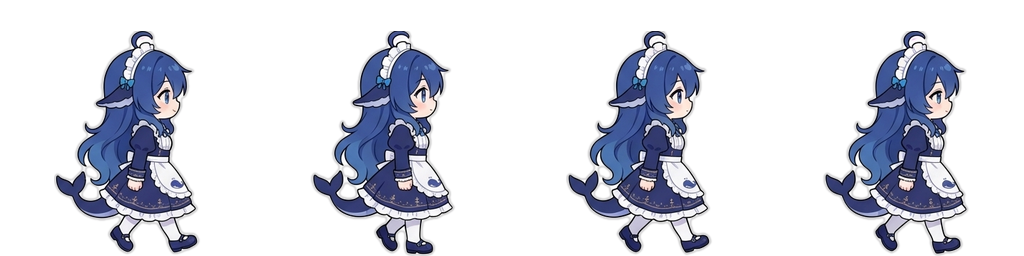
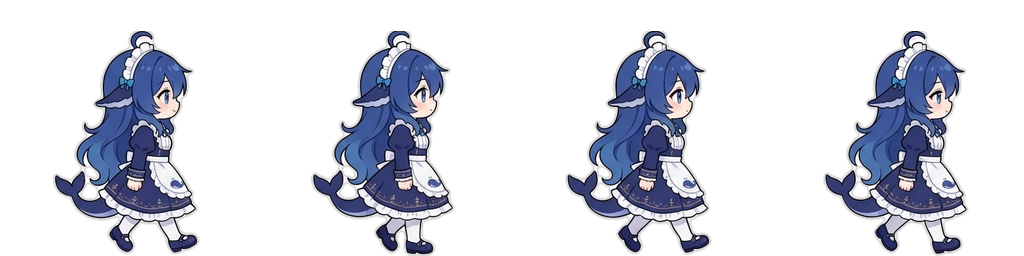
fix(assets): 统一缩放因子替代逐帧归一化——消除角色忽大忽小与过裁感
- 逐帧归一化（每帧缩放到统一高度）会把抬手帧压扁、蹲伏帧拉伸 → 动画里角色忽大忽小、像过裁
- 改统一缩放：scale = 目标高 / 全帧最大内容高，最高帧达目标高，其余按真实比例更矮
- 帧间高度差现为真实姿势差异（wake 221/206、drag 214/218/210），不再被强行拉齐
- 验证：web 无崩溃、assets 200、冒烟 OK

diff --git a/scripts/slice-sheet.py b/scripts/slice-sheet.py
@@ -321,9 +321,10 @@ def detect_grid(img, max_cells=8):
 
 def build_state_sheet(img, row_bounds, col_bounds, row, cols, size, scale=0.88):
     """把一行（同一状态的帧）做成帧 sheet（图形学式逐对象配准）：
-    每帧**独立**裁到自身内容 bbox（非 union——union 保留源帧漂移造成左右移动，
-    且含更低内容的帧会缩小整体导致头顶丢失）→ 统一高度缩放 → **底中对齐**锚点
-    （脚着地；左右漂移被 x 居中消除）。空帧跳过。"""
+    先抠图（调用方已完成）→ 每帧**独立**裁到自身内容 bbox → **统一缩放因子**
+    （scale = 目标高 / 全帧最大内容高；最高帧达目标高，其余按真实比例更矮——
+    逐帧归一化会把"抬手帧压扁/蹲伏帧拉伸"造成忽大忽小与过裁感）→
+    **底中对齐**（脚着地；x 居中消除左右漂移）。空帧跳过。"""
     frames = []
     for c in cols:
         (yt, yb), (xl, xr) = row_bounds[row], col_bounds[c]
@@ -335,14 +336,16 @@ def build_state_sheet(img, row_bounds, col_bounds, row, cols, size, scale=0.88):
     if not frames:
         return None, 0
     hmax = max(bb[3] - bb[1] for _, bb in frames)
-    target_h = round(size * scale)
+    if hmax <= 0:
+        return None, 0
+    s = (size * scale) / hmax  # 统一缩放因子
     norm = []
     for cell, (x0, y0, x1, y1) in frames:
         if x1 <= x0 or y1 <= y0:
             continue
         f = cell.crop((x0, y0, x1, y1))
-        fh = target_h
-        fw = max(1, round(f.width * fh / f.height))
+        fw = max(1, round(f.width * s))
+        fh = max(1, round(f.height * s))
         if f.size != (fw, fh):
             f = f.resize((fw, fh), Image.LANCZOS)
         norm.append(f)
